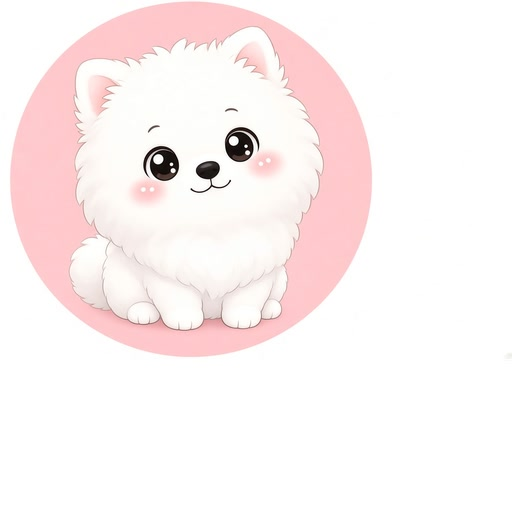
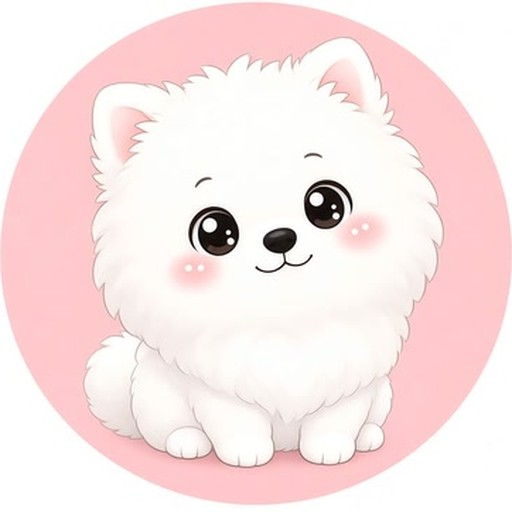
Center the Q mascot so it fills the hub circle.
The square artwork sat in the top-left of the file, so phones showed a small pink dog inside a large white circle. Crop it to the dog and lock the frame to a square.

diff --git a/index.html b/index.html
@@ -49,12 +49,13 @@
   }
   .mascot-frame {
     width: min(168px, 42vw);
+    height: min(168px, 42vw);
     aspect-ratio: 1 / 1;
     flex: 0 0 auto;
     overflow: hidden;
     border: 4px solid #fff;
     border-radius: 50%;
-    background: #ffd0e0;
+    background: #fff;
     box-shadow: 0 8px 0 var(--shadow);
   }
   .mascot {
@@ -62,7 +63,7 @@
     width: 100%;
     height: 100%;
     object-fit: cover;
-    object-position: center;
+    object-position: center center;
   }
   .hero-copy { min-width: 0; }
   .kicker {
@@ -212,7 +213,7 @@
       gap: 22px;
       text-align: left;
     }
-    .mascot-frame { width: 168px; }
+    .mascot-frame { width: 168px; height: 168px; }
     h1 { font-size: 48px; }
     .grade > h2 { font-size: 22px; }
     .topic { padding: 16px 16px 18px; }
